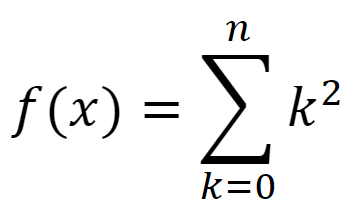
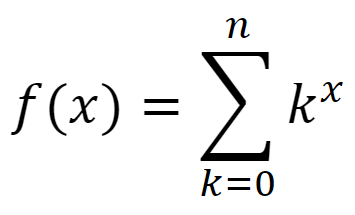
add eq

diff --git a/test.tex b/test.tex
@@ -12,7 +12,7 @@
 \end{itemize}
 
 \begin{align}
-	f(x) = \sum_{k=0}^{n} k^{2}
+	f(x) = \sum_{k=0}^{n} k^{x}
 \end{align}
 
 \end{document}
